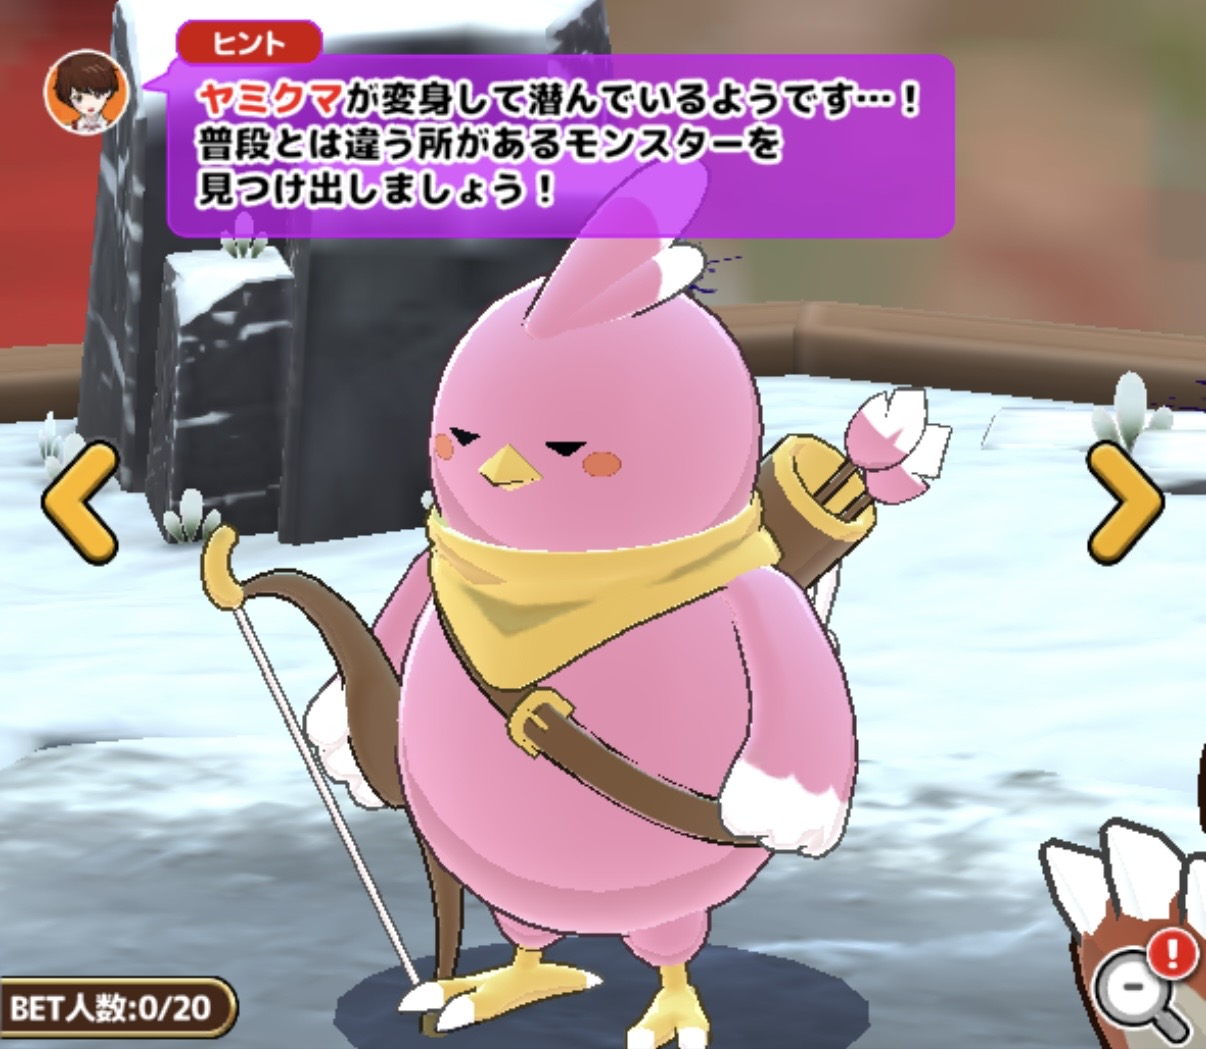
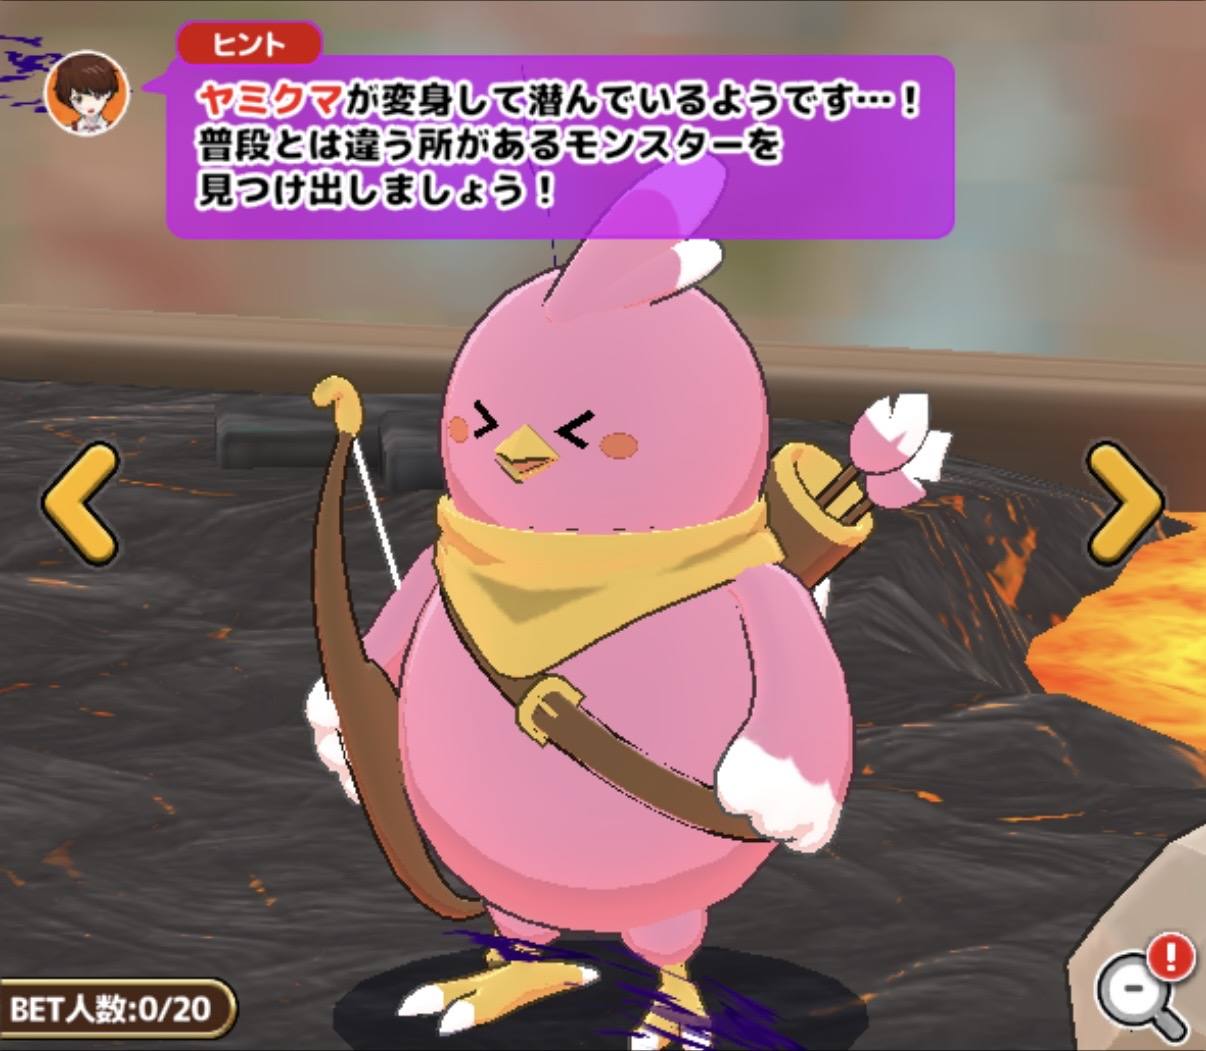
情報更新

diff --git a/index.html b/index.html
@@ -37,7 +37,7 @@
   <link rel="preconnect" href="https://fonts.googleapis.com">
   <link rel="preconnect" href="https://fonts.gstatic.com" crossorigin>
   <link href="https://fonts.googleapis.com/css2?family=Dela+Gothic+One&family=Zen+Antique&family=Noto+Sans+JP:wght@400;500;700;900&display=swap" rel="stylesheet">
-  <link rel="stylesheet" href="style.css?v=0.4.0">
+  <link rel="stylesheet" href="style.css?v=0.4.1">
 </head>
 <body>
 
@@ -215,8 +215,8 @@
     </svg>
   </div>
 
-  <script src="data-normal.js?v=0.4.0" defer></script>
-  <script src="data-anomaly.js?v=0.4.0" defer></script>
-  <script src="script.js?v=0.4.0" defer></script>
+  <script src="data-normal.js?v=0.4.1" defer></script>
+  <script src="data-anomaly.js?v=0.4.1" defer></script>
+  <script src="script.js?v=0.4.1" defer></script>
 </body>
 </html>

diff --git a/data-anomaly.js b/data-anomaly.js
@@ -263,10 +263,15 @@ const ANOMALY_DATA = {
     {
       note: "尻尾",
       point: "尻尾が通常時と比べて長い。",
-      compareIndex: 2
+      compareIndex: 3
     },
   ],
   m17: [
+    {
+      note: "目",
+      point: "目が > < になっている。",
+      compareIndex: 1
+    },
     {
       note: "弓",
       point: "弓の向きが通常時と比べて逆向きになっている。",

diff --git a/data-normal.js b/data-normal.js
@@ -69,6 +69,7 @@ const NORMAL_EXTRA = {
   ],
   m16: [
     { label: "参考B" },
+    { label: "参考C" },
   ],
   m17: [
     { label: "参考B" },
